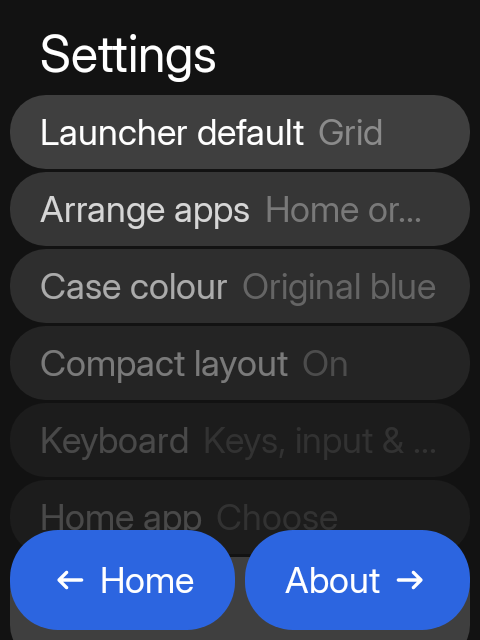
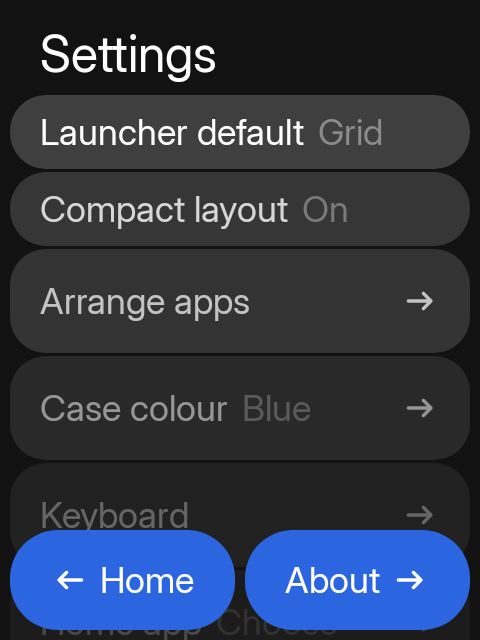
Split Settings toggles from page links

diff --git a/sidekit/src/main/java/hrln/interactive/sidekit/design/components/Item.kt b/sidekit/src/main/java/hrln/interactive/sidekit/design/components/Item.kt
@@ -13,7 +13,6 @@ import androidx.compose.foundation.layout.padding
 import androidx.compose.foundation.layout.size
 import androidx.compose.runtime.Composable
 import androidx.compose.runtime.CompositionLocalProvider
-import hrln.interactive.sidekit.design.theme.contentColorFor
 import androidx.compose.ui.Alignment
 import androidx.compose.ui.Modifier
 import androidx.compose.ui.draw.clip
@@ -23,6 +22,7 @@ import androidx.compose.ui.text.style.TextDecoration
 import androidx.compose.ui.unit.Dp
 import hrln.interactive.sidekit.design.icons.SidekitIcon
 import hrln.interactive.sidekit.design.theme.SidekitTheme
+import hrln.interactive.sidekit.design.theme.contentColorFor
 
 /** Item "Colour Variant" from the Item component set (62:950). */
 enum class ItemColour { Primary, Secondary, Destructive, Muted }
@@ -46,7 +46,7 @@ fun SidekitTile(
     onClick: (() -> Unit)? = null,
     onClickLabel: String? = null,
     contentAlignment: Alignment = Alignment.Center,
-    content: @Composable BoxScope.() -> Unit,
+    content: @Composable BoxScope.() -> Unit
 ) {
     Box(
         modifier = modifier
@@ -54,13 +54,16 @@ fun SidekitTile(
             .clip(SidekitTheme.shapes.item)
             .background(color)
             .then(
-                if (onClick != null) Modifier.clickable(onClickLabel = onClickLabel, role = Role.Button, onClick = onClick)
-                else Modifier,
+                if (onClick != null) {
+                    Modifier.clickable(onClickLabel = onClickLabel, role = Role.Button, onClick = onClick)
+                } else {
+                    Modifier
+                }
             ),
         contentAlignment = contentAlignment,
         content = {
             CompositionLocalProvider(LocalSidekitContentColor provides SidekitTheme.colors.contentColorFor(color)) { content() }
-        },
+        }
     )
 }
 
@@ -78,26 +81,31 @@ fun SidekitItem(
     colour: ItemColour = ItemColour.Primary,
     titleDecoration: TextDecoration? = null,
     onClick: (() -> Unit)? = null,
-    leading: (@Composable RowScope.() -> Unit)? = null,
+    leading: (@Composable RowScope.() -> Unit)? = null
 ) {
     SidekitTile(
         modifier = modifier.fillMaxWidth(),
         color = colour.container(),
         onClick = onClick,
-        contentAlignment = Alignment.CenterStart,
+        contentAlignment = Alignment.CenterStart
     ) {
         Row(
             modifier = Modifier.padding(horizontal = SidekitTheme.spacing.itemPadding),
             verticalAlignment = Alignment.CenterVertically,
-            horizontalArrangement = Arrangement.spacedBy(SidekitTheme.spacing.itemContentGap),
+            horizontalArrangement = Arrangement.spacedBy(SidekitTheme.spacing.itemContentGap)
         ) {
             leading?.invoke(this)
             if (icon != null) SidekitIconImage(icon)
             SidekitText(title, textDecoration = titleDecoration)
             if (secondary != null) {
                 SidekitText(secondary, Modifier.weight(1f), color = SidekitTheme.colors.surfaceA6)
-            } else if (showLinkArrow) {
-                Box(Modifier.weight(1f), contentAlignment = Alignment.CenterEnd) {
+            }
+            // The arrow marks a row that opens another page, whether or not it also shows a value.
+            if (showLinkArrow) {
+                Box(
+                    if (secondary == null) Modifier.weight(1f) else Modifier,
+                    contentAlignment = Alignment.CenterEnd
+                ) {
                     SidekitIconImage(SidekitIcon.ArrowRightAlt)
                 }
             }
@@ -114,7 +122,7 @@ fun SidekitIconItem(
     colour: ItemColour = ItemColour.Primary,
     color: Color = colour.container(),
     iconSize: Dp = SidekitTheme.spacing.iconSize,
-    onClick: (() -> Unit)? = null,
+    onClick: (() -> Unit)? = null
 ) {
     SidekitTile(modifier = modifier, color = color, onClick = onClick, onClickLabel = contentDescription) {
         SidekitIconImage(icon, size = iconSize, contentDescription = contentDescription)
@@ -127,7 +135,7 @@ fun SidekitItemRow(modifier: Modifier = Modifier, content: @Composable RowScope.
     Row(
         modifier = modifier.fillMaxWidth(),
         horizontalArrangement = Arrangement.spacedBy(SidekitTheme.spacing.itemOuterGap),
-        content = content,
+        content = content
     )
 }
 
@@ -137,7 +145,7 @@ fun SidekitCard(
     modifier: Modifier = Modifier,
     color: Color = SidekitTheme.colors.surfaceA3,
     onClick: (() -> Unit)? = null,
-    content: @Composable BoxScope.() -> Unit,
+    content: @Composable BoxScope.() -> Unit
 ) {
     Box(
         modifier = modifier
@@ -147,6 +155,6 @@ fun SidekitCard(
             .padding(SidekitTheme.spacing.itemPadding),
         content = {
             CompositionLocalProvider(LocalSidekitContentColor provides SidekitTheme.colors.contentColorFor(color)) { content() }
-        },
+        }
     )
 }

diff --git a/app/src/main/java/hrln/interactive/sidekit/apps/settings/SettingsScreen.kt b/app/src/main/java/hrln/interactive/sidekit/apps/settings/SettingsScreen.kt
@@ -78,24 +78,26 @@ internal fun SettingsHome(onHome: () -> Unit, onAbout: () -> Unit, onCaseColour:
     val list = rememberLazyListState()
     SidekitScaffold("Settings", actions = listOf(SideAction.back("home", "Home", onHome), SideAction.forward("about", "About", onAbout))) { padding ->
         SidekitList(padding, state = list) {
+            // Toggles act in place: compact rows, no arrow.
             item {
                 SidekitItem("Launcher default", Modifier.height(CompactRowHeight).listFade(list, 0), secondary = if (listLayout) "List" else "Grid", onClick = {
                     prefs.listLayout = !prefs.listLayout
                     revision++
                 })
             }
-            item { SidekitItem("Arrange apps", Modifier.height(CompactRowHeight).listFade(list, 1), secondary = "Home order & dock", onClick = onArrange) }
-            item { SidekitItem("Case colour", Modifier.height(CompactRowHeight).listFade(list, 2), secondary = caseColour?.label ?: "Original blue", onClick = onCaseColour) }
             // Shorter header and action bar on every screen: more room for the body.
             item {
-                SidekitItem("Compact layout", Modifier.height(CompactRowHeight).listFade(list, 3), secondary = if (compactLayout) "On" else "Off", onClick = {
+                SidekitItem("Compact layout", Modifier.height(CompactRowHeight).listFade(list, 1), secondary = if (compactLayout) "On" else "Off", onClick = {
                     prefs.compactLayout = !prefs.compactLayout
                     revision++
                 })
             }
+            // Everything below opens another page: full-height rows with a link arrow.
+            item { SidekitItem("Arrange apps", Modifier.listFade(list, 2), showLinkArrow = true, onClick = onArrange) }
+            item { SidekitItem("Case colour", Modifier.listFade(list, 3), secondary = caseColour?.label ?: "Blue", showLinkArrow = true, onClick = onCaseColour) }
             // All keypad preferences live together on the Keyboard page, with the key diagram.
-            item { SidekitItem("Keyboard", Modifier.height(CompactRowHeight).listFade(list, 4), secondary = "Keys & input", onClick = onKeyboard) }
-            item { SidekitItem("Home app", Modifier.height(CompactRowHeight).listFade(list, 5), secondary = if (home) "Sidekit" else "Choose", onClick = { open(Settings.ACTION_HOME_SETTINGS) }) }
+            item { SidekitItem("Keyboard", Modifier.listFade(list, 4), showLinkArrow = true, onClick = onKeyboard) }
+            item { SidekitItem("Home app", Modifier.listFade(list, 5), secondary = if (home) "Sidekit" else "Choose", showLinkArrow = true, onClick = { open(Settings.ACTION_HOME_SETTINGS) }) }
             item { SidekitItem("Hide apps", showLinkArrow = true, onClick = onHiddenApps) }
             // Device settings live on their own page, so this screen stays Sidekit's own settings.
             item { SidekitItem("System settings", showLinkArrow = true, onClick = onSystem) }

diff --git a/app/src/test/java/hrln/interactive/sidekit/apps/settings/KeypadMappingUiTest.kt b/app/src/test/java/hrln/interactive/sidekit/apps/settings/KeypadMappingUiTest.kt
@@ -192,7 +192,6 @@ class KeypadMappingUiTest {
         var opened = 0
         show { SettingsHome({}, {}, onKeyboard = { opened++ }) }
         scrollTo("Keyboard")
-        compose.onNodeWithText("Keys & input").assertIsDisplayed()
         // The old separate keypad rows are gone: one entry leads to the Keyboard page.
         compose.onNodeWithText("Input mode").assertDoesNotExist()
         compose.onNodeWithText("Keypad Back key").assertDoesNotExist()
@@ -209,7 +208,7 @@ class KeypadMappingUiTest {
         compose.onNodeWithText("Keypad").assertIsDisplayed()
         compose.onNodeWithText("Input mode").assertIsDisplayed()
         compose.onNodeWithText("Keypad Back key").assertIsDisplayed()
-        compose.onNodeWithText("Keypad mapping").assertIsDisplayed()
+        compose.onNodeWithText("Mapping").assertIsDisplayed()
         // Tapping the keypad row cycles the module, and the diagram follows it.
         compose.onNodeWithText("Keypad").performClick()
         compose.runOnIdle { assertEquals(KeypadModule.Qwerty, keypad.module) }
@@ -218,7 +217,7 @@ class KeypadMappingUiTest {
         scrollTo("Tap a key to learn its action.")
         compose.onNodeWithText("QW").assertIsDisplayed()
         compose.onRoot().captureRoboImage("screenshots/keyboard_settings_page.png")
-        scrollTo("Keypad mapping").performClick()
+        scrollTo("Mapping").performClick()
         assertEquals(1, mapping)
     }
 }

diff --git a/app/src/main/java/hrln/interactive/sidekit/apps/settings/KeyboardSettingsScreen.kt b/app/src/main/java/hrln/interactive/sidekit/apps/settings/KeyboardSettingsScreen.kt
@@ -93,8 +93,9 @@ internal fun KeyboardSettingsScreen(back: () -> Unit, onKeypadMapping: () -> Uni
             item {
                 SidekitItem(
                     "Keypad Back key",
-                    Modifier.height(CompactRowHeight).listFade(list, 2),
-                    secondary = if (accessibility) "Enabled" else "Enable",
+                    Modifier.listFade(list, 2),
+                    secondary = if (accessibility) "On" else "Off",
+                    showLinkArrow = true,
                     onClick = {
                         try {
                             context.startActivity(Intent(Settings.ACTION_ACCESSIBILITY_SETTINGS))
@@ -106,10 +107,10 @@ internal fun KeyboardSettingsScreen(back: () -> Unit, onKeypadMapping: () -> Uni
             }
             item {
                 SidekitItem(
-                    "Keypad mapping",
-                    Modifier.height(CompactRowHeight).listFade(list, 3),
-                    secondary = if (custom != null) "Custom" else null,
-                    showLinkArrow = custom == null,
+                    "Mapping",
+                    Modifier.listFade(list, 3),
+                    secondary = if (custom != null) "Custom" else "Automatic",
+                    showLinkArrow = true,
                     onClick = onKeypadMapping
                 )
             }
